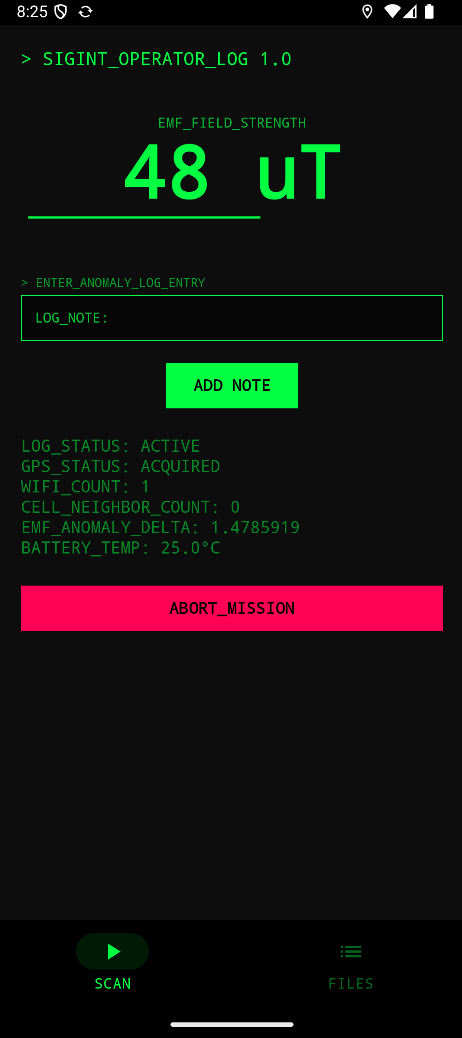
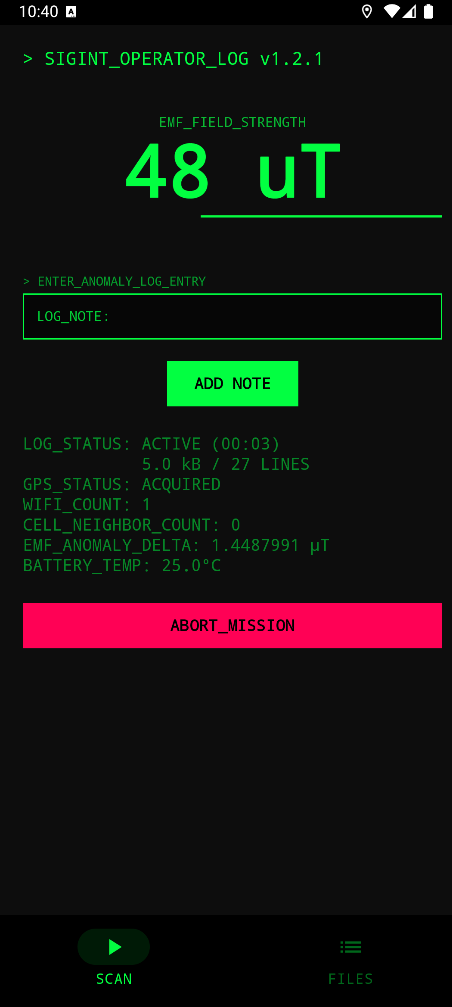
Features: - Added timer display - Added size and lines display - Forced portrait mode
Happy days

diff --git a/app/src/main/java/com/honkfm/sensordump/MainActivity.kt b/app/src/main/java/com/honkfm/sensordump/MainActivity.kt
@@ -15,6 +15,8 @@ import android.location.LocationListener
 import android.location.LocationManager
 import android.os.Build
 import android.os.Bundle
+import android.text.format.DateUtils
+import android.text.format.Formatter
 import android.util.Log
 import android.view.WindowManager
 import android.widget.Toast
@@ -110,7 +112,11 @@ class MainActivity : ComponentActivity(), LocationListener {
         val wifiCount by AppState.wifiCount.collectAsState()
         val emfAnomalyDelta by AppState.emfAnomalyDelta.collectAsState()
         val batteryTemperature by AppState.batteryTemperature.collectAsState()
-        val callNeighborCell by AppState.callNeighborCell.collectAsState();
+        val callNeighborCell by AppState.callNeighborCell.collectAsState()
+        val scanRuntime by AppState.scanRunTime.collectAsState()
+        val scanLines by AppState.scanLines.collectAsState()
+        val scanSizeBytes by AppState.scanSize.collectAsState()
+
         val context = LocalContext.current
 
 
@@ -121,7 +127,7 @@ class MainActivity : ComponentActivity(), LocationListener {
             horizontalAlignment = Alignment.CenterHorizontally
         ) {
             Text(
-                text = "> SIGINT_OPERATOR_LOG ${BuildConfig.VERSION_NAME}",
+                text = "> SIGINT_OPERATOR_LOG v${BuildConfig.VERSION_NAME}",
                 color = TacticalGreen,
                 fontFamily = FontFamily.Monospace,
                 fontSize = 16.sp,
@@ -256,8 +262,14 @@ class MainActivity : ComponentActivity(), LocationListener {
                         .align(Alignment.Start)
                 )
             } else {
+
                 Text(
-                    text = "LOG_STATUS: ACTIVE\nGPS_STATUS: $gpsStatus\nWIFI_COUNT: $wifiCount\nCELL_NEIGHBOR_COUNT: $callNeighborCell\nEMF_ANOMALY_DELTA: $emfAnomalyDelta µT\nBATTERY_TEMP: $batteryTemperature°C",
+                    text = "LOG_STATUS: ACTIVE (${DateUtils.formatElapsedTime(scanRuntime / 60 / 60 / 60 / 60 / 60)})\n            ${
+                        Formatter.formatShortFileSize(
+                            context,
+                            scanSizeBytes
+                        )
+                    } / ${scanLines} LINES\nGPS_STATUS: $gpsStatus\nWIFI_COUNT: $wifiCount\nCELL_NEIGHBOR_COUNT: $callNeighborCell\nEMF_ANOMALY_DELTA: $emfAnomalyDelta µT\nBATTERY_TEMP: $batteryTemperature°C",
                     color = TacticalGreen.copy(alpha = 0.5f),
                     fontSize = 15.sp,
                     fontFamily = FontFamily.Monospace,

diff --git a/app/src/main/java/com/honkfm/sensordump/AppState.kt b/app/src/main/java/com/honkfm/sensordump/AppState.kt
@@ -3,7 +3,7 @@ package com.honkfm.sensordump
 import kotlinx.coroutines.flow.MutableStateFlow
 import kotlinx.coroutines.flow.asStateFlow
 
-object AppState {
+public object AppState {
     private val _isLogging = MutableStateFlow(false)
     private val _totalEmf = MutableStateFlow(0.0f)
     private val _pendingNote = MutableStateFlow("")
@@ -11,6 +11,9 @@ object AppState {
     private val _callNeighborCell = MutableStateFlow(0)
     private val _emf_anomaly_delta = MutableStateFlow(0f)
     private val _batteryTemperature = MutableStateFlow(0.0)
+    private val _scanRunTime = MutableStateFlow(0L)
+    private val _scanLines = MutableStateFlow(0)
+    private val _scanSize = MutableStateFlow(0L)
 
     val isLogging = _isLogging.asStateFlow()
     val totalEmf = _totalEmf.asStateFlow()
@@ -19,17 +22,27 @@ object AppState {
     val callNeighborCell = _callNeighborCell.asStateFlow()
     val emfAnomalyDelta = _emf_anomaly_delta.asStateFlow()
     val batteryTemperature = _batteryTemperature.asStateFlow()
+    val scanLines = _scanLines.asStateFlow()
+    var scanStartTime = 0L
+    val scanRunTime = _scanRunTime.asStateFlow()
+    val scanSize =  _scanSize.asStateFlow()
+
+    fun addLine(sizeBytes: Long = 0) {
+        _scanLines.value++
+        _scanRunTime.value = (System.nanoTime() - scanStartTime)
+        _scanSize.value += sizeBytes
+    }
 
     fun setBatteryTemperature(temp: Double) {
-        _batteryTemperature.value = temp;
+        _batteryTemperature.value = temp
     }
 
     fun setCellNeighborCount(count: Int) {
-        _callNeighborCell.value = count;
+        _callNeighborCell.value = count
     }
 
     fun setWifiCount(count: Int) {
-        _wifiCount.value = count;
+        _wifiCount.value = count
     }
 
     fun setEmfAnomalyDelta(value: Float) {
@@ -38,10 +51,18 @@ object AppState {
 
     fun setIsLogging(running: Boolean) {
         _isLogging.value = running
+
+        // Reset
+        if (running) {
+            scanStartTime = System.nanoTime()
+            _scanRunTime.value = 0
+            _scanLines.value = 0
+            _scanSize.value = 0
+        }
     }
 
     fun getIsLogging(): Boolean {
-        return _isLogging.value;
+        return _isLogging.value
     }
 
     fun getTotalEmf(): Float {

diff --git a/app/src/main/java/com/honkfm/sensordump/SigintService.kt b/app/src/main/java/com/honkfm/sensordump/SigintService.kt
@@ -145,7 +145,10 @@ class SigintService : Service(), SensorEventListener, LocationListener {
         val timeStamp = SimpleDateFormat("yyyyMMdd_HHmmss", Locale.getDefault()).format(Date())
         //val downloadsDir = android.os.Environment.getExternalStoragePublicDirectory(android.os.Environment.DIRECTORY_DOWNLOADS)
         logFile = File(baseContext.filesDir, "SIGINT_DUMP_$timeStamp.csv")
-        logFile?.appendText("timestamp,lat,lon,alt,gps_accuracy,emf_raw_x,emf_raw_y,emf_raw_z,emf_total,emf_accuracy,emf_expected_strength,emf_anomaly_delta,declination_err,cell_type,cell_rf_cn,cell_rsrp,cell_rsrq,cell_rssi,cell_neighbor_count,barometer_pa,battery_temp,wifi_count,wifi_main_ssid,note\n")
+        val headerTxt =
+            "timestamp,lat,lon,alt,gps_accuracy,emf_raw_x,emf_raw_y,emf_raw_z,emf_total,emf_accuracy,emf_expected_strength,emf_anomaly_delta,declination_err,cell_type,cell_rf_cn,cell_rsrp,cell_rsrq,cell_rssi,cell_neighbor_count,barometer_pa,battery_temp,wifi_count,wifi_main_ssid,note\n"
+        logFile?.appendText(headerTxt)
+        AppState.addLine(headerTxt.length.toLong())
     }
 
     private fun performFullDump() {
@@ -263,6 +266,7 @@ class SigintService : Service(), SensorEventListener, LocationListener {
                 null,
                 null
             )
+            AppState.addLine(line.length.toLong())
         } catch (e: Exception) {
             e.printStackTrace()
         }
